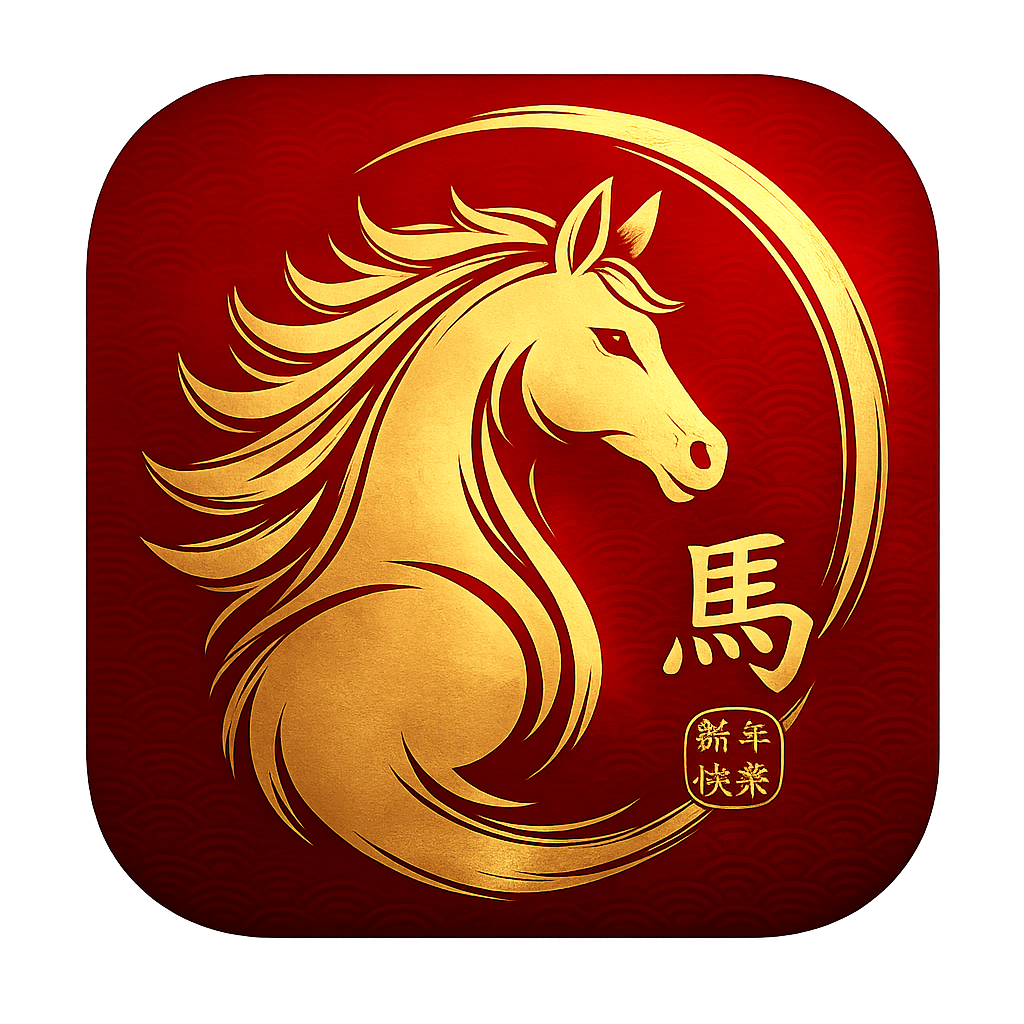
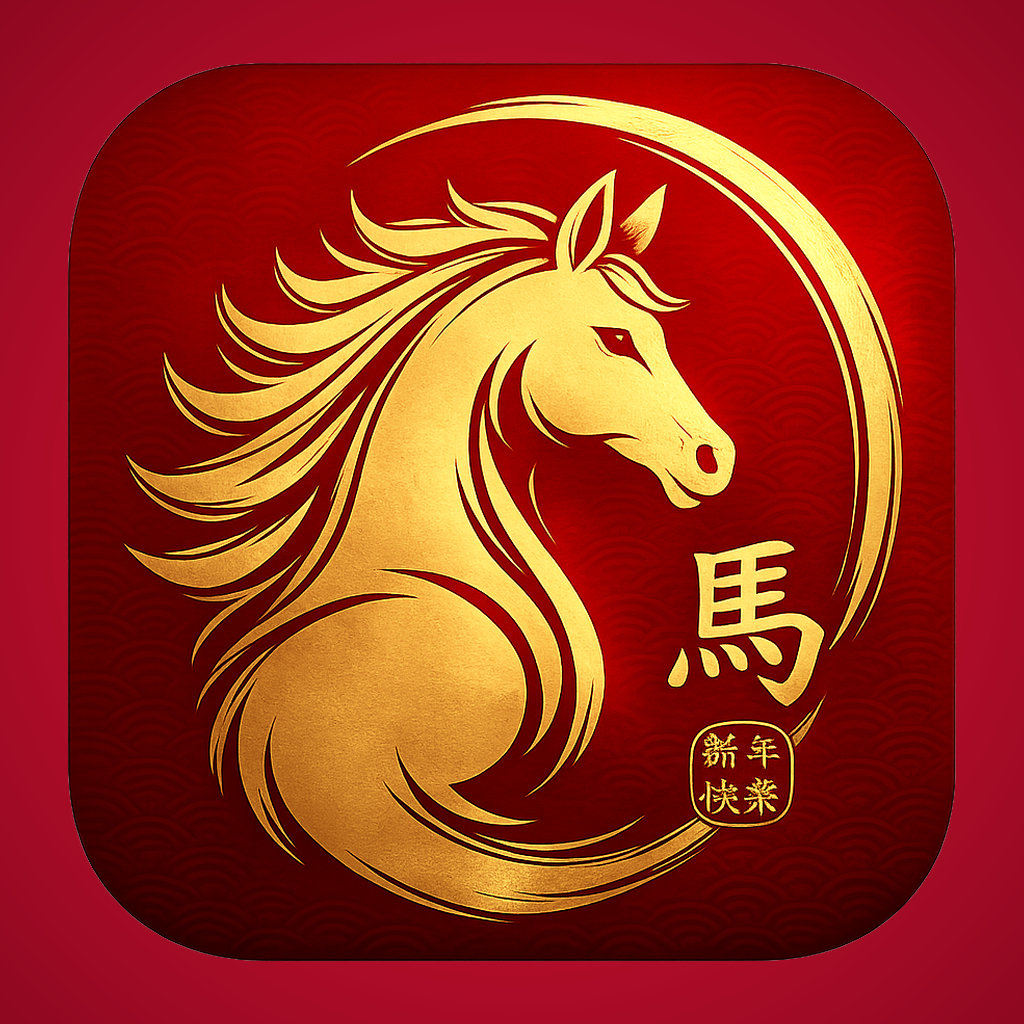
Cinabrio · icono PWA con fondo rojo (sin borde blanco en iOS) + responsive iPhone 14 Pro
- app/cinabrio/icon.png y apple-icon.png regenerados: caballo escalado a 87% sobre fondo rojo Cinabrio (gradiente radial sutil) reemplazando la transparencia que iOS rellenaba con blanco.
- public/cinabrio-logo.png: versión transparente recortada para el login.
- viewport + viewport-fit=cover, safe-area-insets en body para Dynamic Island / home indicator.
- font-size:16px en inputs (evita auto-zoom iOS).
- Toggle más compacto en mobile, paddings de Card/header reducidos.
- DayHeader: progress bar full-width abajo, navegación al lado del título.
- Libro diario: amount inline con la descripción, fecha/categoría/medio de pago/acciones en línea wrap debajo.

diff --git a/app/cinabrio/page.js b/app/cinabrio/page.js
@@ -60,16 +60,34 @@ function addDays(n) { const d = new Date(); d.setDate(d.getDate() + n); return d
 const GLOBAL_CSS = `
   @import url('https://fonts.googleapis.com/css2?family=Inter:wght@300;400;500;600;700;800&display=swap');
   *{box-sizing:border-box}
-  html,body{margin:0;padding:0;font-family:'Inter',-apple-system,BlinkMacSystemFont,sans-serif;background:${T.bgBase};color:${T.textPrimary};font-feature-settings:'cv11','ss03'}
+  html,body{margin:0;padding:0;font-family:'Inter',-apple-system,BlinkMacSystemFont,sans-serif;background:${T.bgBase};color:${T.textPrimary};font-feature-settings:'cv11','ss03';-webkit-font-smoothing:antialiased;-webkit-tap-highlight-color:transparent;overscroll-behavior-y:none}
+  body{padding-top:env(safe-area-inset-top);padding-bottom:env(safe-area-inset-bottom);padding-left:env(safe-area-inset-left);padding-right:env(safe-area-inset-right)}
   ::selection{background:${T.gold}55;color:${T.textPrimary}}
   ::-webkit-scrollbar{width:8px;height:8px}
   ::-webkit-scrollbar-track{background:transparent}
   ::-webkit-scrollbar-thumb{background:${T.border};border-radius:4px}
   ::-webkit-scrollbar-thumb:hover{background:${T.borderHi}}
-  button{font-family:inherit}
-  input,textarea,select{font-family:inherit}
+  button{font-family:inherit;-webkit-tap-highlight-color:transparent}
+  input,textarea,select{font-family:inherit;font-size:16px}
   @keyframes fadeIn{from{opacity:0;transform:translateY(4px)}to{opacity:1;transform:none}}
   @keyframes slideIn{from{opacity:0;transform:translateY(8px)}to{opacity:1;transform:none}}
+  .cnb-page{padding:6px 14px 80px;max-width:1280px;margin:0 auto}
+  .cnb-header{padding:10px 14px 6px;display:flex;justify-content:center;align-items:center}
+  .cnb-toggle-pill{padding:9px 18px}
+  @media (min-width: 720px){
+    .cnb-page{padding:14px 24px 80px}
+    .cnb-header{padding:22px 24px 12px}
+    .cnb-toggle-pill{padding:9px 24px}
+  }
+  .cnb-row{display:flex;align-items:center;gap:12px;padding:13px 14px;flex-wrap:wrap}
+  .cnb-row-main{display:flex;align-items:center;gap:12px;flex:1;min-width:0}
+  .cnb-row-tail{display:flex;align-items:center;gap:6px;margin-left:auto}
+  .cnb-grid-stats{display:grid;grid-template-columns:1fr;gap:10px}
+  @media (min-width: 560px){.cnb-grid-stats{grid-template-columns:repeat(3,1fr)}}
+  .cnb-section-bar{display:flex;gap:6px;align-items:center;flex-wrap:wrap;overflow-x:auto;-webkit-overflow-scrolling:touch}
+  .cnb-section-bar::-webkit-scrollbar{display:none}
+  .cnb-card{padding:16px}
+  @media (min-width: 720px){.cnb-card{padding:20px 22px}}
 `;
 
 // ─────── Root ───────
@@ -142,10 +160,10 @@ function App({ session, onLogout }) {
 
   return (
     <div style={{ minHeight: "100vh", background: `radial-gradient(ellipse at top, ${T.bgSurface} 0%, ${T.bgBase} 75%)` }}>
-      <header style={{ padding: "22px 24px 10px", display: "flex", justifyContent: "center", alignItems: "center" }}>
+      <header className="cnb-header">
         <ModeToggle mode={mode} setMode={setMode} />
       </header>
-      <main style={{ padding: "10px 24px 60px", maxWidth: 1280, margin: "0 auto" }}>
+      <main className="cnb-page">
         {mode === "habits" ? <HabitsSection token={session.token} /> : <FinanceSection token={session.token} />}
       </main>
     </div>
@@ -156,6 +174,7 @@ function ModeToggle({ mode, setMode }) {
   const isFinance = mode === "finance";
   return (
     <button
+      className="cnb-toggle"
       onClick={() => setMode(isFinance ? "habits" : "finance")}
       style={{
         display: "inline-flex", alignItems: "center", gap: 0, padding: 4,
@@ -167,15 +186,15 @@ function ModeToggle({ mode, setMode }) {
         fontFamily: "inherit",
       }}
     >
-      <span style={{
-        position: "relative", padding: "9px 22px", fontSize: 12, fontWeight: 700,
+      <span className="cnb-toggle-pill" style={{
+        position: "relative", fontSize: 12, fontWeight: 700,
         color: !isFinance ? T.bgBase : T.textMuted,
-        letterSpacing: "0.12em", textTransform: "uppercase", zIndex: 2, transition: "color 220ms",
+        letterSpacing: "0.1em", textTransform: "uppercase", zIndex: 2, transition: "color 220ms",
       }}>HÁBITOS</span>
-      <span style={{
-        position: "relative", padding: "9px 22px", fontSize: 12, fontWeight: 700,
+      <span className="cnb-toggle-pill" style={{
+        position: "relative", fontSize: 12, fontWeight: 700,
         color: isFinance ? T.bgBase : T.textMuted,
-        letterSpacing: "0.12em", textTransform: "uppercase", zIndex: 2, transition: "color 220ms",
+        letterSpacing: "0.1em", textTransform: "uppercase", zIndex: 2, transition: "color 220ms",
       }}>FINANZAS</span>
       <span style={{
         position: "absolute", top: 4, bottom: 4,
@@ -306,20 +325,20 @@ function DayHeader({ date, setDate, pct, completed, total, isToday }) {
 
   return (
     <Card>
-      <div style={{ display: "flex", justifyContent: "space-between", alignItems: "flex-start", gap: 16, flexWrap: "wrap" }}>
-        <div>
-          <p style={{ margin: 0, fontSize: 11, color: T.gold, letterSpacing: "0.16em", textTransform: "uppercase", fontWeight: 700 }}>{isToday ? "Hoy" : DAYS_FULL[dowOf(date)]}</p>
-          <div style={{ display: "flex", alignItems: "baseline", gap: 12, marginTop: 4, flexWrap: "wrap" }}>
-            <p style={{ margin: 0, fontSize: 30, fontWeight: 600, letterSpacing: "-0.02em", lineHeight: 1, color: T.textPrimary }}>{d.toLocaleDateString("es-AR", { day: "numeric", month: "long" })}</p>
-            <div style={{ display: "flex", gap: 4 }}>
-              <IconBtn onClick={() => navDay(-1)} title="Día anterior">‹</IconBtn>
-              {!isToday && <IconBtn onClick={() => setDate(todayStr())} title="Hoy">⌂</IconBtn>}
-              <IconBtn onClick={() => navDay(1)} title="Día siguiente">›</IconBtn>
-            </div>
+      <div style={{ display: "flex", flexDirection: "column", gap: 14 }}>
+        <div style={{ display: "flex", justifyContent: "space-between", alignItems: "flex-start", gap: 10 }}>
+          <div style={{ minWidth: 0, flex: 1 }}>
+            <p style={{ margin: 0, fontSize: 11, color: T.gold, letterSpacing: "0.16em", textTransform: "uppercase", fontWeight: 700 }}>{isToday ? "Hoy" : DAYS_FULL[dowOf(date)]}</p>
+            <p style={{ margin: "4px 0 0", fontSize: 26, fontWeight: 600, letterSpacing: "-0.02em", lineHeight: 1.1, color: T.textPrimary }}>{d.toLocaleDateString("es-AR", { day: "numeric", month: "long" })}</p>
+            <p style={{ margin: "6px 0 0", fontSize: 12.5, color: T.textSecondary }}>{completed} de {total} hábitos completados</p>
           </div>
-          <p style={{ margin: "8px 0 0", fontSize: 13, color: T.textSecondary }}>{completed} de {total} hábitos completados</p>
+          <div style={{ display: "flex", gap: 4, flexShrink: 0 }}>
+            <IconBtn onClick={() => navDay(-1)} title="Día anterior">‹</IconBtn>
+            {!isToday && <IconBtn onClick={() => setDate(todayStr())} title="Hoy">⌂</IconBtn>}
+            <IconBtn onClick={() => navDay(1)} title="Día siguiente">›</IconBtn>
+          </div>
         </div>
-        <div style={{ minWidth: 200, flex: 1, maxWidth: 320, alignSelf: "stretch", display: "flex", flexDirection: "column", justifyContent: "center" }}>
+        <div>
           <div style={{ display: "flex", justifyContent: "space-between", alignItems: "baseline", marginBottom: 6 }}>
             <span style={{ fontSize: 10.5, color: T.textMuted, letterSpacing: "0.14em", textTransform: "uppercase", fontWeight: 700 }}>Progreso</span>
             <span style={{ fontSize: 22, fontWeight: 600, color: pct === 100 ? T.success : T.gold, fontVariantNumeric: "tabular-nums" }}>{pct}%</span>
@@ -767,26 +786,29 @@ function FinanceSection({ token }) {
         ) : (
           <Card padded={false}>
             {ledger.map((r, i) => (
-              <div key={`${r.kind}-${r.id}`} style={{ display: "flex", alignItems: "center", gap: 14, padding: "13px 18px", borderBottom: i === ledger.length - 1 ? "none" : `1px solid ${T.border}` }}>
-                <span style={{ fontFamily: "ui-monospace, monospace", fontSize: 12, color: T.textMuted, minWidth: 50, fontWeight: 500 }}>{r.date.slice(5).split("-").reverse().join("/")}</span>
+              <div key={`${r.kind}-${r.id}`} style={{ display: "flex", alignItems: "center", gap: 10, padding: "12px 14px", borderBottom: i === ledger.length - 1 ? "none" : `1px solid ${T.border}` }}>
                 <span style={{
-                  width: 28, height: 28, borderRadius: 14, flexShrink: 0,
+                  width: 32, height: 32, borderRadius: 16, flexShrink: 0,
                   background: r.kind === "in" ? `${T.gold}1F` : `${T.red}1F`,
                   border: `1px solid ${r.kind === "in" ? T.gold + "55" : T.red + "55"}`,
                   display: "flex", alignItems: "center", justifyContent: "center",
                   color: r.kind === "in" ? T.gold : T.red, fontSize: 16, fontWeight: 700, lineHeight: 1,
                 }}>{r.kind === "in" ? "↓" : "↑"}</span>
                 <div style={{ flex: 1, minWidth: 0 }}>
-                  <p style={{ margin: 0, fontSize: 14, fontWeight: 500, color: T.textPrimary, overflow: "hidden", textOverflow: "ellipsis", whiteSpace: "nowrap" }}>{r.label}</p>
-                  <div style={{ display: "flex", gap: 8, alignItems: "center", marginTop: 3, flexWrap: "wrap" }}>
+                  <div style={{ display: "flex", justifyContent: "space-between", gap: 8, alignItems: "baseline" }}>
+                    <p style={{ margin: 0, fontSize: 14, fontWeight: 500, color: T.textPrimary, overflow: "hidden", textOverflow: "ellipsis", whiteSpace: "nowrap", flex: 1, minWidth: 0 }}>{r.label}</p>
+                    <span style={{ fontSize: 14, fontWeight: 600, color: r.kind === "in" ? T.gold : T.textPrimary, fontVariantNumeric: "tabular-nums", whiteSpace: "nowrap", flexShrink: 0 }}>{r.kind === "in" ? "+" : "−"} {fmtArs(r.amount)}</span>
+                  </div>
+                  <div style={{ display: "flex", gap: 8, alignItems: "center", marginTop: 4, flexWrap: "wrap" }}>
+                    <span style={{ fontFamily: "ui-monospace, monospace", fontSize: 11, color: T.textMuted, fontWeight: 500 }}>{r.date.slice(5).split("-").reverse().join("/")}</span>
                     {r.category && <span style={{ fontSize: 11, color: r.category.color || T.gold, fontWeight: 600 }}>{r.category.icon ? `${r.category.icon} ` : ""}{r.category.name}</span>}
                     {r.payment_method && <span style={{ fontSize: 10.5, color: T.textMuted, padding: "1px 7px", borderRadius: 999, border: `1px solid ${T.border}` }}>{r.payment_method}{r.installments > 1 ? ` · ${r.installments}x` : ""}</span>}
-                    {r.notes && <span style={{ fontSize: 10.5, color: T.textMuted }}>{r.notes}</span>}
+                    {r.notes && <span style={{ fontSize: 10.5, color: T.textMuted, overflow: "hidden", textOverflow: "ellipsis", whiteSpace: "nowrap" }}>{r.notes}</span>}
+                    <span style={{ flex: 1 }} />
+                    <IconBtn onClick={() => r.kind === "in" ? setEditWithdraw(r.raw) : setEditExpense(r.raw)} title="Editar">✎</IconBtn>
+                    <IconBtn onClick={() => r.kind === "in" ? delWdraw(r.raw) : delExp(r.raw)} title="Eliminar" danger>×</IconBtn>
                   </div>
                 </div>
-                <span style={{ fontSize: 14, fontWeight: 600, color: r.kind === "in" ? T.gold : T.textPrimary, fontVariantNumeric: "tabular-nums" }}>{r.kind === "in" ? "+" : "−"} {fmtArs(r.amount)}</span>
-                <IconBtn onClick={() => r.kind === "in" ? setEditWithdraw(r.raw) : setEditExpense(r.raw)} title="Editar">✎</IconBtn>
-                <IconBtn onClick={() => r.kind === "in" ? delWdraw(r.raw) : delExp(r.raw)} title="Eliminar" danger>×</IconBtn>
               </div>
             ))}
           </Card>
@@ -1254,7 +1276,7 @@ function ConfirmModal({ title, body, onConfirm, onClose, danger }) {
 }
 
 function Card({ children, padded = true }) {
-  return <div style={{ background: T.bgSurface, border: `1px solid ${T.border}`, borderRadius: 14, padding: padded ? "20px 22px" : 0, boxShadow: "0 8px 24px rgba(0,0,0,0.3)" }}>{children}</div>;
+  return <div className={padded ? "cnb-card" : ""} style={{ background: T.bgSurface, border: `1px solid ${T.border}`, borderRadius: 14, padding: padded ? undefined : 0, boxShadow: "0 8px 24px rgba(0,0,0,0.3)" }}>{children}</div>;
 }
 
 function SectionHeader({ title, action }) {

diff --git a/app/cinabrio/layout.js b/app/cinabrio/layout.js
@@ -2,16 +2,20 @@ export const metadata = {
   title: { absolute: "Cinabrio" },
   description: "Hábitos y finanzas personales",
   manifest: "/cinabrio/manifest.webmanifest",
-  themeColor: "#C8102E",
   appleWebApp: {
     title: "Cinabrio",
     statusBarStyle: "black-translucent",
     capable: true,
   },
-  icons: {
-    icon: "/cinabrio-logo.png",
-    apple: "/cinabrio-logo.png",
-  },
+};
+
+export const viewport = {
+  themeColor: "#0A0606",
+  width: "device-width",
+  initialScale: 1,
+  maximumScale: 1,
+  userScalable: false,
+  viewportFit: "cover",
 };
 
 export default function CinabrioLayout({ children }) {